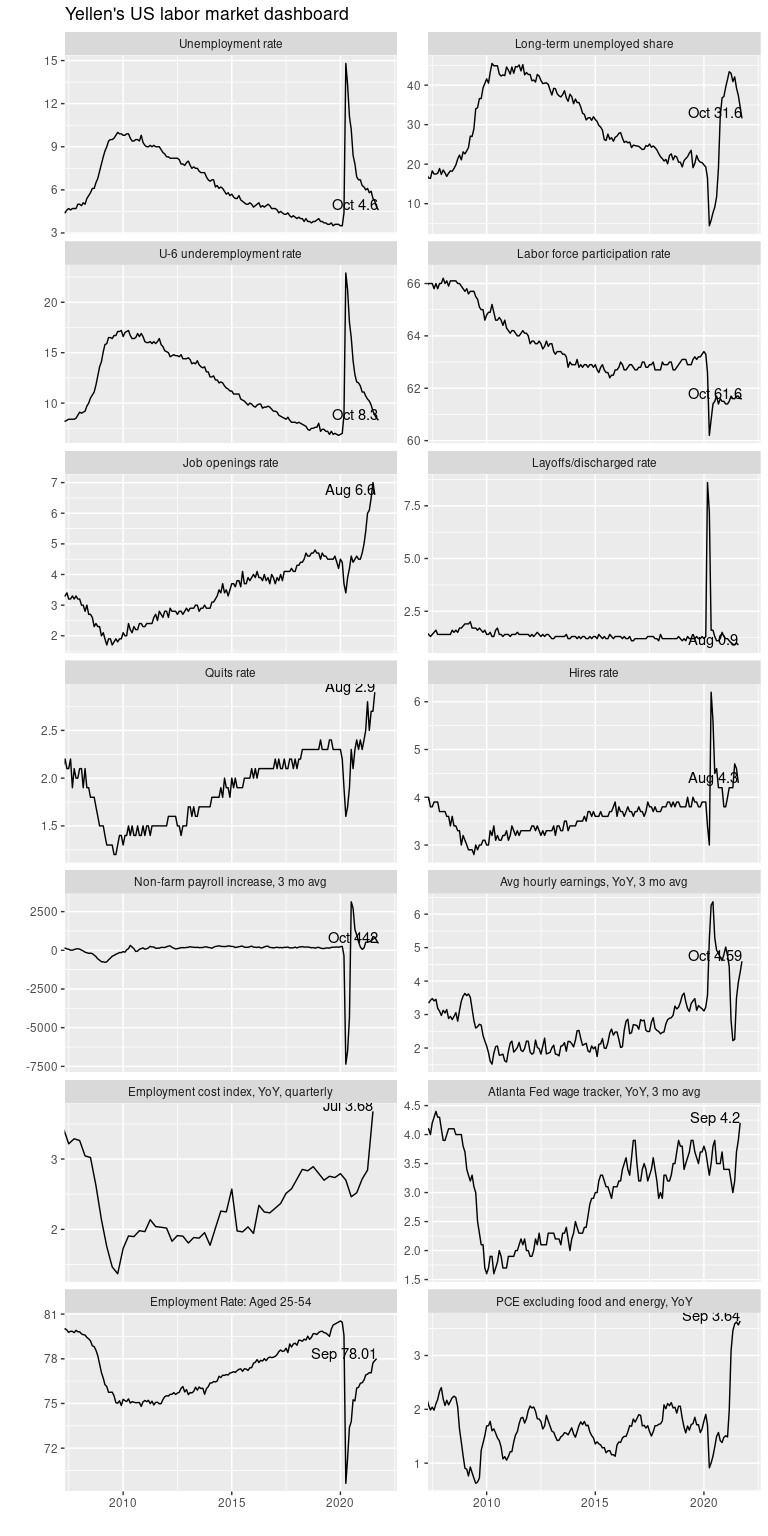
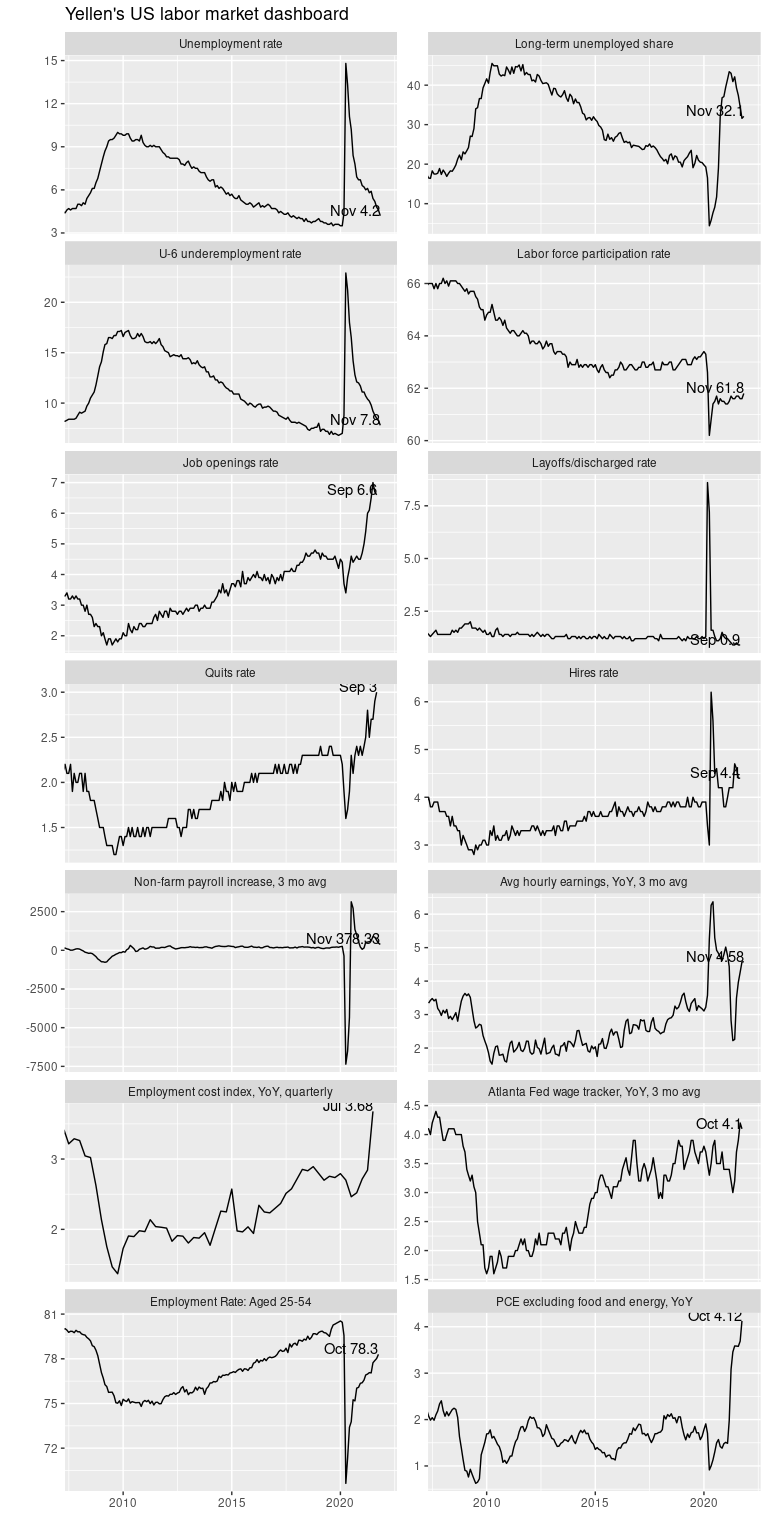
update November 2021 employment

diff --git a/README.md b/README.md
@@ -14,7 +14,7 @@ Mitsuo Shiota
 -   [Prepare for the plot](#prepare-for-the-plot)
 -   [Dashboard](#dashboard)
 
-Updated: 2021-11-06
+Updated: 2021-12-04
 
 ## Summary
 
@@ -107,45 +107,6 @@ labor_mkt_all <- yellen_labor_mkt_symbols %>%
     ## Registered S3 method overwritten by 'tune':
     ##   method                   from   
     ##   required_pkgs.model_spec parsnip
-
-    ## Warning: `type_convert()` only converts columns of type 'character'.
-    ## - `df` has no columns of type 'character'
-
-    ## Warning: `type_convert()` only converts columns of type 'character'.
-    ## - `df` has no columns of type 'character'
-
-    ## Warning: `type_convert()` only converts columns of type 'character'.
-    ## - `df` has no columns of type 'character'
-
-    ## Warning: `type_convert()` only converts columns of type 'character'.
-    ## - `df` has no columns of type 'character'
-
-    ## Warning: `type_convert()` only converts columns of type 'character'.
-    ## - `df` has no columns of type 'character'
-
-    ## Warning: `type_convert()` only converts columns of type 'character'.
-    ## - `df` has no columns of type 'character'
-
-    ## Warning: `type_convert()` only converts columns of type 'character'.
-    ## - `df` has no columns of type 'character'
-
-    ## Warning: `type_convert()` only converts columns of type 'character'.
-    ## - `df` has no columns of type 'character'
-
-    ## Warning: `type_convert()` only converts columns of type 'character'.
-    ## - `df` has no columns of type 'character'
-
-    ## Warning: `type_convert()` only converts columns of type 'character'.
-    ## - `df` has no columns of type 'character'
-
-    ## Warning: `type_convert()` only converts columns of type 'character'.
-    ## - `df` has no columns of type 'character'
-
-    ## Warning: `type_convert()` only converts columns of type 'character'.
-    ## - `df` has no columns of type 'character'
-
-    ## Warning: `type_convert()` only converts columns of type 'character'.
-    ## - `df` has no columns of type 'character'
 
 ## Transform data
 
